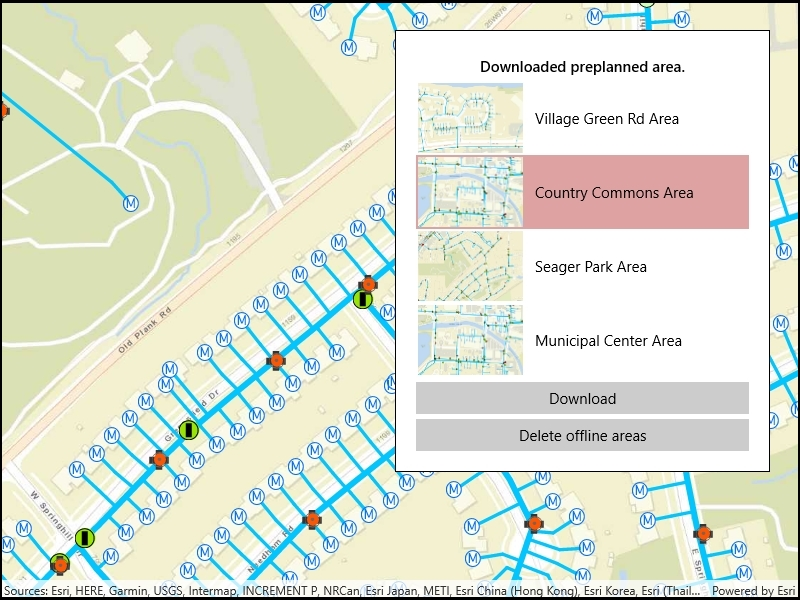
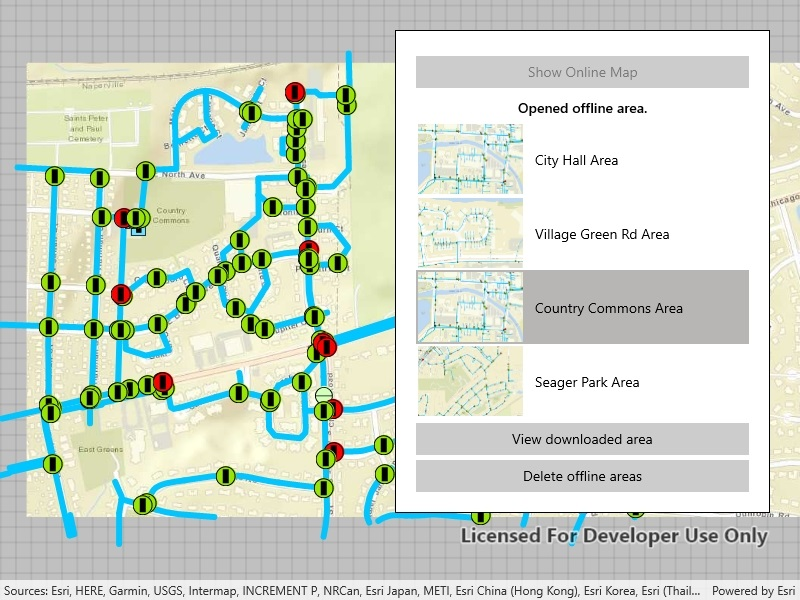
Added UWP

diff --git a/src/UWP/ArcGISRuntime.UWP.Viewer/Samples/Map/DownloadPreplannedMap/DownloadPreplannedMap.xaml b/src/UWP/ArcGISRuntime.UWP.Viewer/Samples/Map/DownloadPreplannedMap/DownloadPreplannedMap.xaml
@@ -7,45 +7,77 @@
         <esriUI:MapView x:Name="MyMapView" />
         <Border Style="{StaticResource BorderStyle}">
             <StackPanel>
-                <TextBlock x:Name="MessageLabel" 
-                           Text="Select an area, then download it." 
-                           FontWeight="SemiBold" HorizontalAlignment="Center" Margin="5" />
-                <ListView x:Name="AreasList">
+                <Button
+                    x:Name="ShowOnlineButton"
+                    Margin="0,5,0,5"
+                    HorizontalAlignment="Stretch"
+                    Click="ShowOnlineButton_Click"
+                    Content="Show Online Map"
+                    IsEnabled="False" />
+                <TextBlock
+                    x:Name="MessageLabel"
+                    Margin="5"
+                    HorizontalAlignment="Center"
+                    FontWeight="SemiBold"
+                    Text="Select an area, then download it." />
+                <ListView x:Name="AreasList" SelectionChanged="AreasList_SelectionChanged">
                     <ListView.ItemTemplate>
                         <DataTemplate>
                             <Grid>
                                 <Grid.ColumnDefinitions>
-                                    <ColumnDefinition Width="auto"/>
-                                    <ColumnDefinition Width="*"/>
+                                    <ColumnDefinition Width="auto" />
+                                    <ColumnDefinition Width="*" />
                                 </Grid.ColumnDefinitions>
-                                <Image Source="{Binding PortalItem.ThumbnailUri}" 
-                                       Height="70" Margin="-10,2,2,2" Grid.RowSpan="2" Stretch="UniformToFill" />
-                                <TextBlock Text="{Binding PortalItem.Title}" 
-                                           Margin="10,0" VerticalAlignment="Center" Grid.Column="1"/>
+                                <Image
+                                    Grid.RowSpan="2"
+                                    Height="70"
+                                    Margin="-10,2,2,2"
+                                    Source="{Binding PortalItem.ThumbnailUri}"
+                                    Stretch="UniformToFill" />
+                                <TextBlock
+                                    Grid.Column="1"
+                                    Margin="10,0"
+                                    VerticalAlignment="Center"
+                                    Text="{Binding PortalItem.Title}" />
                             </Grid>
                         </DataTemplate>
                     </ListView.ItemTemplate>
                 </ListView>
-                <Button Content="Download" 
-                        HorizontalAlignment="Stretch" Margin="0,5,0,5" 
-                        Click="OnDownloadMapAreaClicked" />
-                <Button Content="Delete offline areas"  
-                        HorizontalAlignment="Stretch"
-                        Click="OnDeleteAllMapAreasClicked" />
+                <Button
+                    x:Name="DownloadButton"
+                    Margin="0,5,0,5"
+                    HorizontalAlignment="Stretch"
+                    Click="OnDownloadMapAreaClicked"
+                    Content="Download preplanned area" />
+                <Button
+                    HorizontalAlignment="Stretch"
+                    Click="OnDeleteAllMapAreasClicked"
+                    Content="Delete offline areas" />
             </StackPanel>
         </Border>
-        <!-- Busy indication -->
+        <!--  Busy indication  -->
         <Grid x:Name="BusyIndicator" Background="#807f7f7f">
             <Grid HorizontalAlignment="Center" VerticalAlignment="Center">
                 <Grid.RowDefinitions>
-                    <RowDefinition Height="auto"/>
-                    <RowDefinition Height="auto"/>
+                    <RowDefinition Height="auto" />
+                    <RowDefinition Height="auto" />
                 </Grid.RowDefinitions>
-                <TextBlock Foreground="White" Margin="10" FontSize="18">
-                    <Run x:Name="BusyText" Text="Querying map areas..."/>
-                    <Run x:Name="BusyPercentage" Text=""/>
+                <TextBlock
+                    Margin="10"
+                    FontSize="18"
+                    Foreground="White">
+                    <Run x:Name="BusyText" Text="Querying map areas..." />
+                    <Run x:Name="BusyPercentage" Text="" />
                 </TextBlock>
-                <ProgressBar x:Name="ProgressBar" IsEnabled="True" IsIndeterminate="True" Width="100" Height="10" HorizontalAlignment="Center" VerticalAlignment="Center" Grid.Row="1"/>
+                <ProgressBar
+                    x:Name="ProgressBar"
+                    Grid.Row="1"
+                    Width="100"
+                    Height="10"
+                    HorizontalAlignment="Center"
+                    VerticalAlignment="Center"
+                    IsEnabled="True"
+                    IsIndeterminate="True" />
             </Grid>
         </Grid>
     </Grid>

diff --git a/src/UWP/ArcGISRuntime.UWP.Viewer/Samples/Map/DownloadPreplannedMap/DownloadPreplannedMap.xaml.cs b/src/UWP/ArcGISRuntime.UWP.Viewer/Samples/Map/DownloadPreplannedMap/DownloadPreplannedMap.xaml.cs
@@ -8,6 +8,7 @@
 // language governing permissions and limitations under the License.
 
 using ArcGISRuntime.Samples.Managers;
+using Esri.ArcGISRuntime.Data;
 using Esri.ArcGISRuntime.Mapping;
 using Esri.ArcGISRuntime.Portal;
 using Esri.ArcGISRuntime.Tasks.Offline;
@@ -19,7 +20,6 @@ using System.Linq;
 using System.Threading.Tasks;
 using Windows.UI.Popups;
 using Windows.UI.Xaml;
-using Esri.ArcGISRuntime.Data;
 
 namespace ArcGISRuntime.UWP.Samples.DownloadPreplannedMap
 {
@@ -42,6 +42,9 @@ namespace ArcGISRuntime.UWP.Samples.DownloadPreplannedMap
         // Hold onto the original map.
         private Map _originalMap;
 
+        // Most recently opened map package.
+        private MobileMapPackage _mobileMapPackage;
+
         public DownloadPreplannedMap()
         {
             InitializeComponent();
@@ -52,6 +55,9 @@ namespace ArcGISRuntime.UWP.Samples.DownloadPreplannedMap
         {
             try
             {
+                // Close the current mobile package when the sample closes.
+                Unloaded += (s, e) => { _mobileMapPackage?.Close(); };
+
                 // The data manager provides a method to get a suitable offline data folder.
                 _offlineDataFolder = Path.Combine(DataManager.GetDataFolder(), "SampleData", "DownloadPreplannedMapAreas");
 
@@ -95,8 +101,20 @@ namespace ArcGISRuntime.UWP.Samples.DownloadPreplannedMap
             }
         }
 
+        private void ShowOnlineButton_Click(object sender, RoutedEventArgs e)
+        {
+            // Show the online map.
+            MyMapView.Map = _originalMap;
+
+            // Disable the button.
+            ShowOnlineButton.IsEnabled = false;
+        }
+
         private async Task DownloadMapAreaAsync(PreplannedMapArea mapArea)
         {
+            // Close the current mobile package.
+            _mobileMapPackage?.Close();
+
             // Set up UI for downloading.
             ProgressBar.IsIndeterminate = false;
             ProgressBar.Value = 0;
@@ -112,10 +130,10 @@ namespace ArcGISRuntime.UWP.Samples.DownloadPreplannedMap
                 try
                 {
                     // Open the offline map package.
-                    MobileMapPackage localMapArea = await MobileMapPackage.OpenAsync(path);
+                    _mobileMapPackage = await MobileMapPackage.OpenAsync(path);
 
                     // Display the first map.
-                    MyMapView.Map = localMapArea.Maps.First();
+                    MyMapView.Map = _mobileMapPackage.Maps.First();
 
                     // Update the UI.
                     BusyText.Text = string.Empty;
@@ -133,6 +151,9 @@ namespace ArcGISRuntime.UWP.Samples.DownloadPreplannedMap
             // Create download parameters.
             DownloadPreplannedOfflineMapParameters parameters = await _offlineMapTask.CreateDefaultDownloadPreplannedOfflineMapParametersAsync(mapArea);
 
+            // Set the update mode to not receive updates.
+            parameters.UpdateMode = PreplannedUpdateMode.NoUpdates;
+
             // Create the job.
             DownloadPreplannedOfflineMapJob job = _offlineMapTask.DownloadPreplannedOfflineMap(parameters, path);
 
@@ -143,6 +164,9 @@ namespace ArcGISRuntime.UWP.Samples.DownloadPreplannedMap
             {
                 // Download the area.
                 DownloadPreplannedOfflineMapResult results = await job.GetResultAsync();
+
+                // Set the current mobile map package.
+                _mobileMapPackage = results.MobileMapPackage;
 
                 // Handle possible errors and show them to the user.
                 if (results.HasErrors)
@@ -168,6 +192,8 @@ namespace ArcGISRuntime.UWP.Samples.DownloadPreplannedMap
                 MyMapView.Map = results.OfflineMap;
 
                 // Update the UI.
+                ShowOnlineButton.IsEnabled = true;
+                DownloadButton.Content = "View downloaded area";
                 MessageLabel.Text = "Downloaded preplanned area.";
             }
             catch (Exception ex)
@@ -196,20 +222,13 @@ namespace ArcGISRuntime.UWP.Samples.DownloadPreplannedMap
             });
         }
 
-        private void DeleteAllAreas()
-        {
-            // Delete all data from the temporary data folder.
-            Directory.Delete(_offlineDataFolder, true);
-            Directory.CreateDirectory(_offlineDataFolder);
-
-            // Update the UI.
-            MessageLabel.Text = "Deleted offline areas.";
-        }
-
         private async void OnDownloadMapAreaClicked(object sender, RoutedEventArgs e)
         {
-            PreplannedMapArea selectedMapArea = AreasList.SelectedItem as PreplannedMapArea;
-            await DownloadMapAreaAsync(selectedMapArea);
+            if (AreasList.SelectedItem != null)
+            {
+                PreplannedMapArea selectedMapArea = AreasList.SelectedItem as PreplannedMapArea;
+                await DownloadMapAreaAsync(selectedMapArea);
+            }
         }
 
         private async void OnDeleteAllMapAreasClicked(object sender, RoutedEventArgs e)
@@ -224,14 +243,17 @@ namespace ArcGISRuntime.UWP.Samples.DownloadPreplannedMap
                 // Reset the map.
                 MyMapView.Map = _originalMap;
 
-                // Wait for the garbage collector to get the hint.
-                // Areas can't be deleted until handles to geodatabase tables are released.
-                GC.Collect();
-                GC.WaitForPendingFinalizers();
-                GC.Collect();
+                // Close the current mobile package.
+                _mobileMapPackage?.Close();
 
-                // Delete everything.
-                DeleteAllAreas();
+                // Delete all data from the temporary data folder.
+                Directory.Delete(_offlineDataFolder, true);
+                Directory.CreateDirectory(_offlineDataFolder);
+
+                // Update the UI.
+                MessageLabel.Text = "Deleted downloaded areas.";
+                DownloadButton.Content = "Download preplanned area";
+                ShowOnlineButton.IsEnabled = false;
             }
             catch (Exception ex)
             {
@@ -241,6 +263,19 @@ namespace ArcGISRuntime.UWP.Samples.DownloadPreplannedMap
             finally
             {
                 BusyIndicator.Visibility = Visibility.Collapsed;
+            }
+        }
+
+        private void AreasList_SelectionChanged(object sender, Windows.UI.Xaml.Controls.SelectionChangedEventArgs e)
+        {
+            // Update the download button to reflect if the map area has already been downloaded.
+            if (Directory.Exists(Path.Combine(_offlineDataFolder, (AreasList.SelectedItem as PreplannedMapArea).PortalItem.Title)))
+            {
+                DownloadButton.Content = "View downloaded area";
+            }
+            else
+            {
+                DownloadButton.Content = "Download preplanned area";
             }
         }
     }
